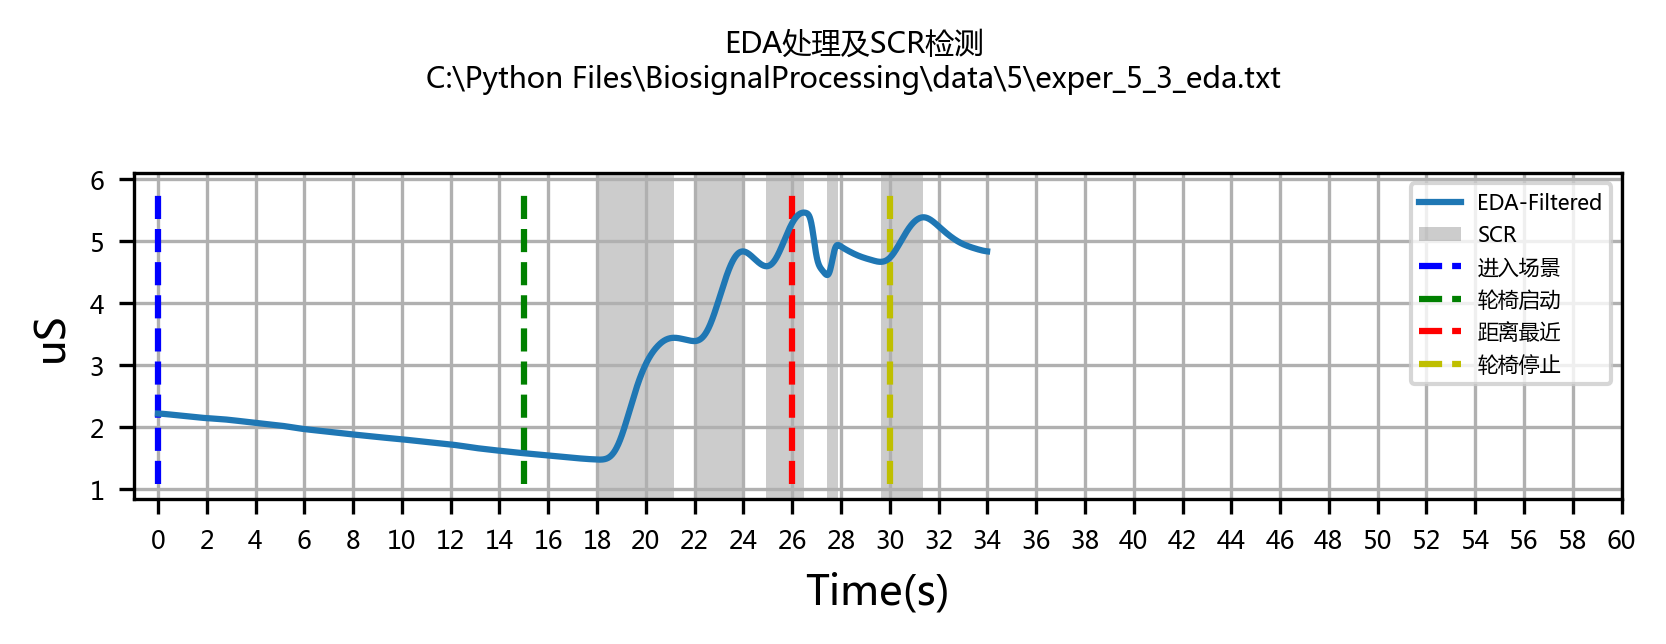
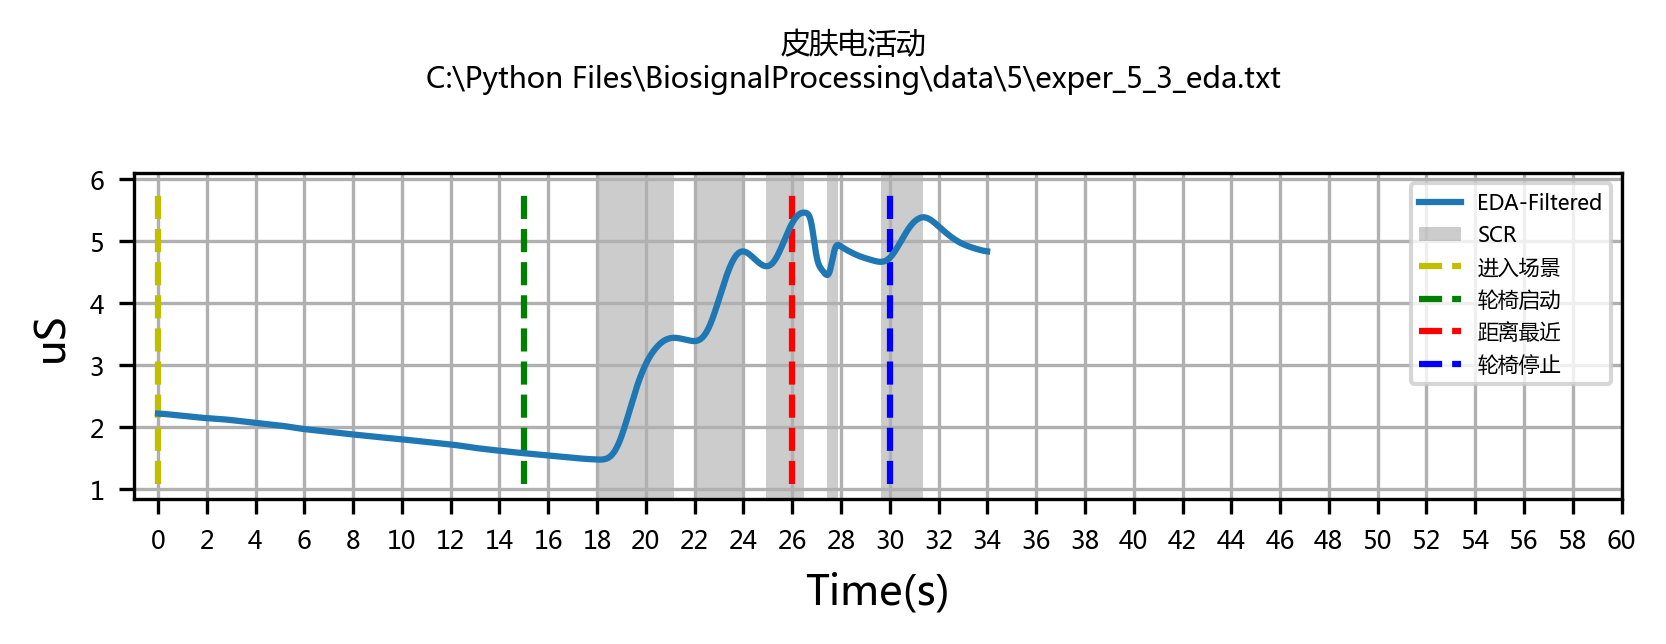
2020-12-05

diff --git a/main.py b/main.py
@@ -28,20 +28,22 @@ if __name__ == "__main__":
             emg, emg_saveasfilename = emg_signal_cut_and_save(file, k+1, i+1, cut_time[k][i], show=False)
             emg_process(emg, i+1, emg_saveasfilename)
 
-    # fnirs_filepath = [r"C:\Python Files\BiosignalProcessing\data\1\fnirs\exper1.csv",
-    #                   r"C:\Python Files\BiosignalProcessing\data\2\fnirs\exper2.csv",
-    #                   r"C:\Python Files\BiosignalProcessing\data\3\fnirs\exper3.csv",
-    #                   r"C:\Python Files\BiosignalProcessing\data\4\fnirs\exper4.csv",
-    #                   r"C:\Python Files\BiosignalProcessing\data\5\fnirs\exper5.csv"]
-    # fnirs_cut_time = [[447, 596, 724, 859],
-    #                   [26, 166, 269, 347],
-    #                   [218, 353, 515, 627],
-    #                   [147, 340, 494, 567],
-    #                   [39, 135, 214, 304]]
-    # for k in range(5):
-    #     fnirs_file = fnirs_filepath[k]
-    #     for i in range(4):
-    #         fnirs, fnirs_saveasfilename = fnirs_signal_cut_and_save(fnirs_file, k + 1, i + 1, fnirs_cut_time[k][i],
-    #                                                                 show_CHx=None)
-    #         fnirs_CHx_process(fnirs, "all", fnirs_saveasfilename, show=False)
-# 第4个人的第4组脑血流数据不能用，会报错
+    fnirs_filepath = [r"C:\Python Files\BiosignalProcessing\data\1\fnirs\exper1.csv",
+                      r"C:\Python Files\BiosignalProcessing\data\2\fnirs\exper2.csv",
+                      r"C:\Python Files\BiosignalProcessing\data\3\fnirs\exper3.csv",
+                      r"C:\Python Files\BiosignalProcessing\data\4\fnirs\exper4.csv",
+                      r"C:\Python Files\BiosignalProcessing\data\5\fnirs\exper5.csv"]
+    fnirs_cut_time = [[447, 596, 724, 859],
+                      [26, 166, 269, 347],
+                      [218, 353, 515, 627],
+                      [147, 340, 494, 567],
+                      [39, 135, 214, 304]]
+
+    # 第4个人的第4组脑血流数据不能用，会报错
+    for k in range(5):
+        fnirs_file = fnirs_filepath[k]
+        for i in range(4):
+            fnirs, fnirs_saveasfilename = fnirs_signal_cut_and_save(fnirs_file, k + 1, i + 1, fnirs_cut_time[k][i],
+                                                                    show_CHx=None)
+            fnirs_CHx_process(fnirs, "all", fnirs_saveasfilename, show=False)
+

diff --git a/tools/eda.py b/tools/eda.py
@@ -115,9 +115,9 @@ def plot_scr_v2(ts: ndarray = None,
     fig = plt.figure()
 
     if path is not None:
-        fig.suptitle('EDA处理及SCR检测\n' + path, fontsize=7)
+        fig.suptitle('皮肤电活动\n' + path, fontsize=7)
     else:
-        fig.suptitle('EDA处理及SCR检测', fontsize=7)
+        fig.suptitle('皮肤电活动', fontsize=7)
 
     # filtered signal with onsets, peaks, SCR
     ax1 = fig.add_subplot(311)
@@ -152,13 +152,13 @@ def plot_scr_v2(ts: ndarray = None,
     ax1.axvspan(xmin=ts[onsets][-1], xmax=ts[offsets][-1], facecolor='gray', alpha=0.4, label='SCR')
 
     # 绘制实验开始，进入场景，轮椅启动，距离障碍物最近，轮椅停止位置
-    ax1.vlines(ts[0], ymin, ymax, color='b', linestyles="--", linewidth=MINOR_LW, label='进入场景')
+    ax1.vlines(ts[0], ymin, ymax, color='y', linestyles="--", linewidth=MINOR_LW, label='进入场景')
     ax1.vlines(ts[15 * sampling_rate], ymin, ymax, color='g', linestyles="--", linewidth=MINOR_LW, label='轮椅启动')
     obs_distance_time = [45, 30, 26, 24]  # 距离障碍物最近时的时间点
     ax1.vlines(ts[obs_distance_time[exper - 1] * sampling_rate], ymin, ymax, color='r', linestyles="--",
                linewidth=MINOR_LW, label='距离最近')
     wheelchair_stop_time = [55, 36, 30, 27]
-    ax1.vlines(ts[wheelchair_stop_time[exper - 1] * sampling_rate], ymin, ymax, color='y', linestyles="--",
+    ax1.vlines(ts[wheelchair_stop_time[exper - 1] * sampling_rate], ymin, ymax, color='b', linestyles="--",
                linewidth=MINOR_LW, label='轮椅停止')
 
     ax1.set_ylabel('uS')
